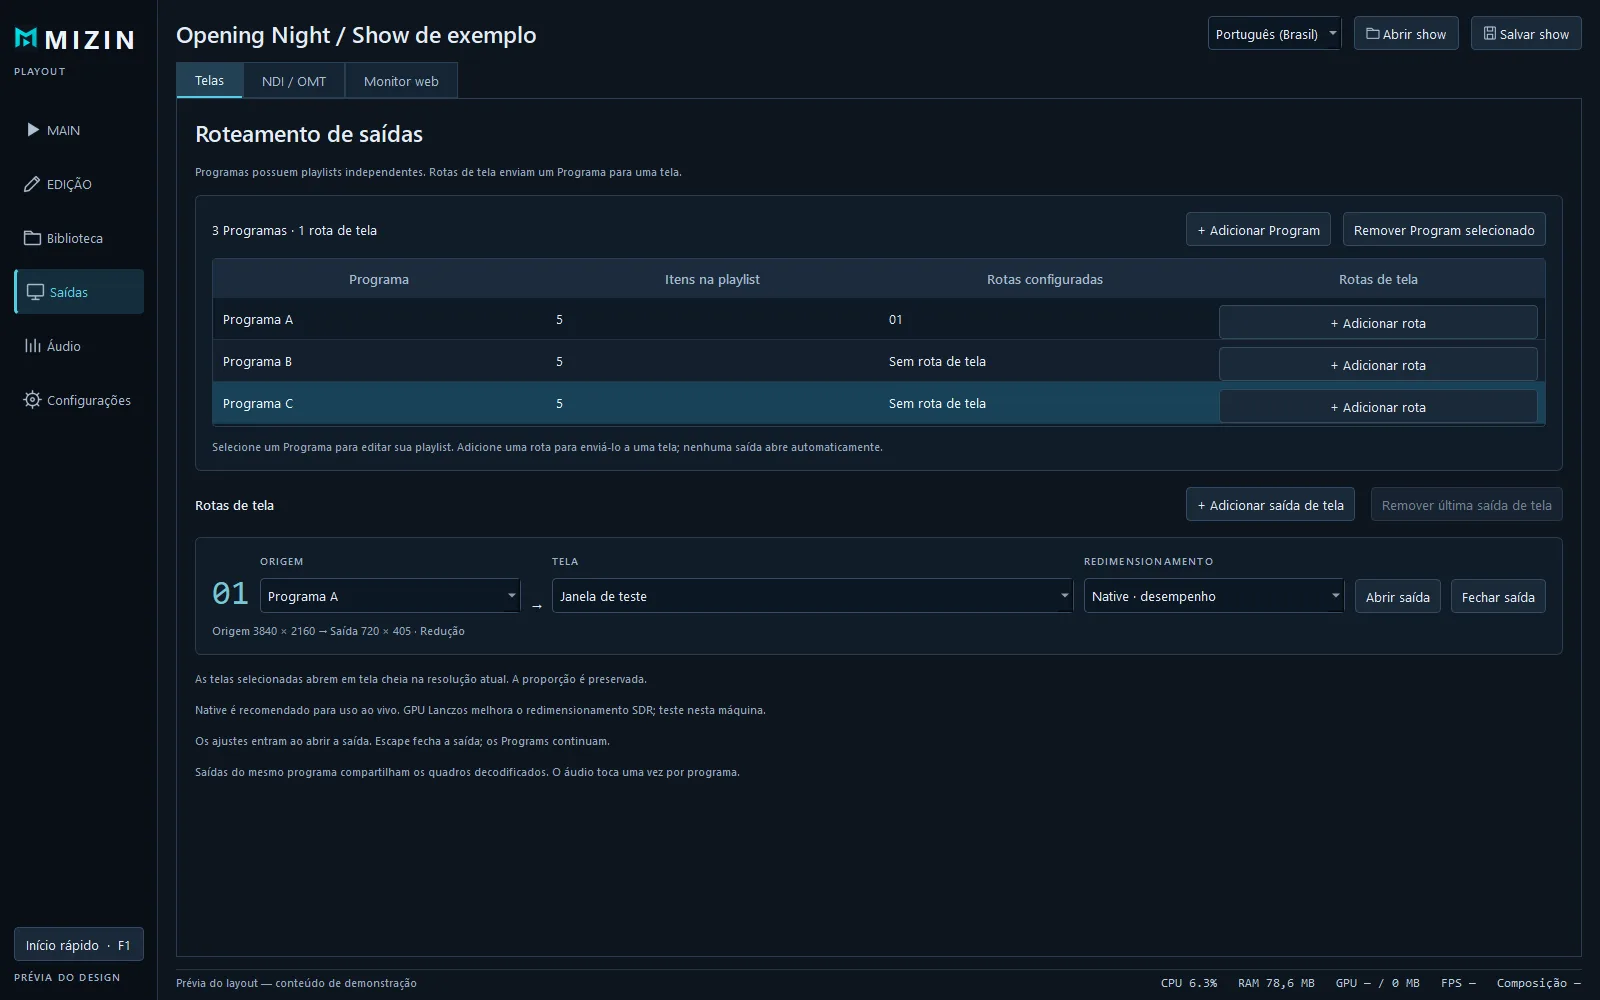
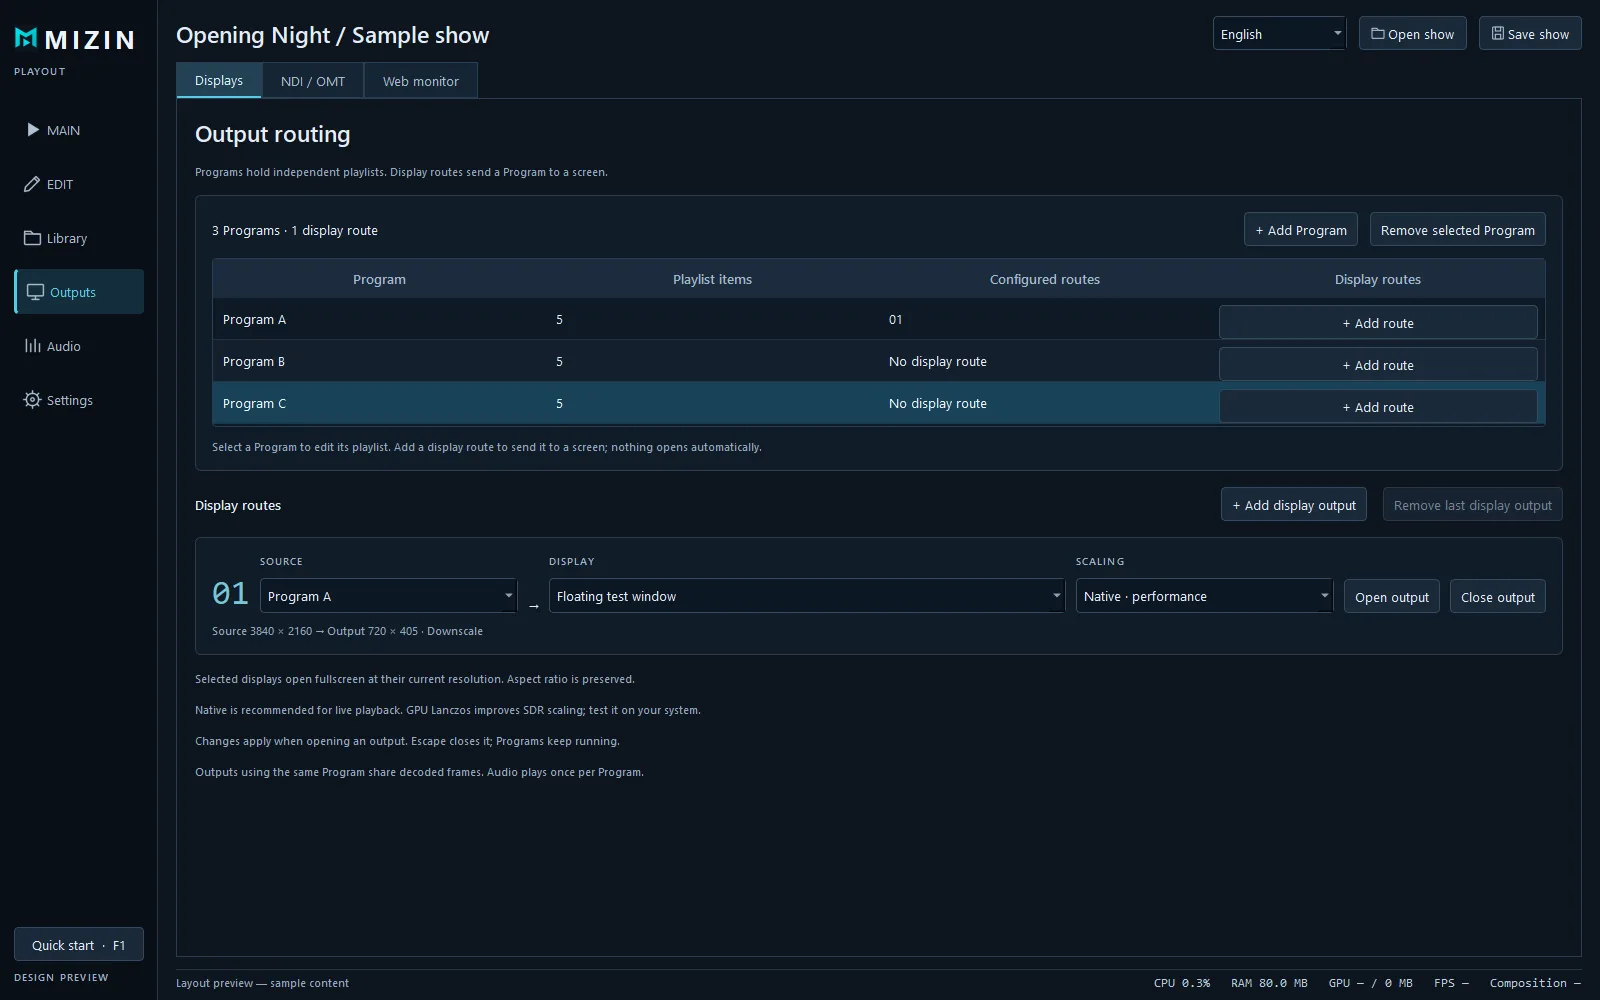
fix: corrige proporcao das imagens do site e adiciona pagina de novidades e script de lancamento

diff --git a/targets/mizin_playout/site/tutorial.html b/targets/mizin_playout/site/tutorial.html
@@ -10,7 +10,7 @@
 <meta name="description-en" content="Step by step: install, build your first show, take CUT/FADE, outputs, NDI/OMT, web monitor and low-latency audio.">
 <meta name="description-pt-BR" content="Passo a passo: instalar, montar o primeiro show, disparar CUT/FADE, saídas, NDI/OMT, monitor web e áudio de baixa latência.">
 <link rel="icon" href="assets/favicon-32.png">
-<link rel="stylesheet" href="assets/styles.css">
+<link rel="stylesheet" href="assets/styles.css?v=e608c2eeea">
 </head>
 <body>
 <header class="top"><div class="wrap">
@@ -18,6 +18,7 @@
   <nav class="links">
     <a href="./"><span lang="en">Home</span><span lang="pt-BR">Início</span></a>
     <a href="./#download"><span lang="en">Download</span><span lang="pt-BR">Baixar</span></a>
+    <a href="changelog.html"><span lang="en">What's new</span><span lang="pt-BR">Novidades</span></a>
   </nav>
   <div class="lang" role="group" aria-label="Language / Idioma"><button data-lang="en">EN</button><button data-lang="pt-BR">PT</button></div>
 </div></header>
@@ -80,7 +81,7 @@
     <h3 lang="en">7 · Screens (LED, projector, TV)</h3><h3 lang="pt-BR">7 · Telas (LED, projetor, TV)</h3>
     <ol lang="en"><li>Open <b>Outputs → Displays</b>. Each route has a <b>Source</b> (Program) and a <b>Display</b>.</li><li><b>+ Add display output</b> creates more routes; several routes can mirror the same Program.</li><li>Choose scaling: <b>Native</b> (recommended live) or <b>Lanczos GPU</b>.</li><li><b>Open output</b> goes fullscreen on that display; <kbd>Esc</kbd> closes it — the Program keeps running.</li></ol>
     <ol lang="pt-BR"><li>Abra <b>Saídas → Telas</b>. Cada rota tem uma <b>Origem</b> (Program) e uma <b>Tela</b>.</li><li><b>+ Adicionar saída de tela</b> cria mais rotas; várias rotas podem espelhar o mesmo Program.</li><li>Escolha a escala: <b>Nativa</b> (recomendada ao vivo) ou <b>Lanczos GPU</b>.</li><li><b>Abrir saída</b> abre em tela cheia naquela tela; <kbd>Esc</kbd> fecha — o Program continua rodando.</li></ol>
-  </div><div class="shot" style="margin:0"><img alt="" src="assets/shots/02-outputs-en.webp" loading="lazy" width="1600" height="1000"></div></div>
+  </div><div class="shot" style="margin:0"><img alt="" src="assets/shots/02-outputs-en.webp" data-src-en="assets/shots/02-outputs-en.webp" data-src-pt="assets/shots/03-outputs-pt-BR.webp" loading="lazy" width="1600" height="1000"></div></div>
 
   <div class="step" id="network"><div>
     <h3 lang="en">8 · NDI® and OMT</h3><h3 lang="pt-BR">8 · NDI® e OMT</h3>
@@ -108,6 +109,6 @@
 </div></section>
 </main>
 <footer><div class="wrap"><span>© 2026 Mizin · <a href="./">Mizin Playout</a></span><span lang="en">NDI® is a registered trademark of Vizrt NDI AB.</span><span lang="pt-BR">NDI® é marca registrada da Vizrt NDI AB.</span></div></footer>
-<script src="assets/site.js"></script>
+<script src="assets/site.js?v=35d0cf8864"></script>
 </body>
 </html>

diff --git a/targets/mizin_playout/site/index.html b/targets/mizin_playout/site/index.html
@@ -13,7 +13,7 @@
 <meta property="og:description" content="Live video playout for shows and events · Playout de vídeo ao vivo para shows e eventos">
 <meta property="og:image" content="assets/shots/01-main-en.webp">
 <link rel="icon" href="assets/favicon-32.png">
-<link rel="stylesheet" href="assets/styles.css">
+<link rel="stylesheet" href="assets/styles.css?v=e608c2eeea">
 <link rel="alternate" hreflang="en" href="./?lang=en">
 <link rel="alternate" hreflang="pt-BR" href="./?lang=pt-BR">
 </head>
@@ -25,6 +25,7 @@
     <a href="#live"><span lang="en">Live desk</span><span lang="pt-BR">Mesa ao vivo</span></a>
     <a href="#download"><span lang="en">Download</span><span lang="pt-BR">Baixar</span></a>
     <a href="tutorial.html"><span lang="en">Tutorial</span><span lang="pt-BR">Tutorial</span></a>
+    <a href="changelog.html"><span lang="en">What's new</span><span lang="pt-BR">Novidades</span></a>
     <a href="#support"><span lang="en">Support the project</span><span lang="pt-BR">Apoie o projeto</span></a>
   </nav>
   <div class="lang" role="group" aria-label="Language / Idioma"><button data-lang="en">EN</button><button data-lang="pt-BR">PT</button></div>
@@ -101,7 +102,7 @@
         <li lang="pt-BR">Os envios NDI / OMT e o monitor web nunca começam sozinhos ao abrir um show.</li>
       </ul>
     </div>
-    <div class="shot"><img alt="Outputs" src="assets/shots/02-outputs-en.webp" width="1600" height="1000" loading="lazy"></div>
+    <div class="shot"><img alt="Outputs" src="assets/shots/02-outputs-en.webp" data-src-en="assets/shots/02-outputs-en.webp" data-src-pt="assets/shots/03-outputs-pt-BR.webp" width="1600" height="1000" loading="lazy"></div>
   </div>
   <div class="split" style="margin-top:40px">
     <div class="shot"><img alt="Audio" src="assets/shots/07-audio-en.webp" data-src-en="assets/shots/07-audio-en.webp" data-src-pt="assets/shots/08-audio-pt-BR.webp" width="1600" height="1000" loading="lazy"></div>
@@ -163,6 +164,6 @@
   <span lang="en">NDI® is a registered trademark of Vizrt NDI AB. Third-party notices ship with the app.</span>
   <span lang="pt-BR">NDI® é marca registrada da Vizrt NDI AB. Os avisos de terceiros acompanham o aplicativo.</span>
 </div></footer>
-<script src="assets/site.js"></script>
+<script src="assets/site.js?v=35d0cf8864"></script>
 </body>
 </html>

diff --git a/targets/mizin_playout/site/changelog.html b/targets/mizin_playout/site/changelog.html
@@ -1,0 +1,36 @@
+<!doctype html>
+<html lang="en" data-lang="en">
+<head>
+<meta charset="utf-8">
+<meta name="viewport" content="width=device-width, initial-scale=1">
+<title>Mizin Playout — What's new</title>
+<meta name="title-en" content="Mizin Playout — What's new">
+<meta name="title-pt-BR" content="Mizin Playout — Novidades">
+<meta name="description" content="Release notes of every published Mizin Playout version.">
+<meta name="description-en" content="Release notes of every published Mizin Playout version.">
+<meta name="description-pt-BR" content="Novidades de cada versão publicada do Mizin Playout.">
+<link rel="icon" href="assets/favicon-32.png">
+<link rel="stylesheet" href="assets/styles.css?v=e608c2eeea">
+</head>
+<body>
+<header class="top"><div class="wrap">
+  <a class="brand" href="./"><img src="assets/icon-256.png" alt="">MIZIN <small>PLAYOUT</small></a>
+  <nav class="links">
+    <a href="./"><span lang="en">Home</span><span lang="pt-BR">Início</span></a>
+    <a href="tutorial.html"><span lang="en">Tutorial</span><span lang="pt-BR">Tutorial</span></a>
+    <a href="./#download"><span lang="en">Download</span><span lang="pt-BR">Baixar</span></a>
+  </nav>
+  <div class="lang" role="group" aria-label="Language / Idioma"><button data-lang="en">EN</button><button data-lang="pt-BR">PT</button></div>
+</div></header>
+<main>
+<section style="border-top:0"><div class="wrap">
+  <h2 lang="en">What's new</h2><h2 lang="pt-BR">Novidades</h2>
+  <p class="sub" lang="en">Every published version and what it brings. The app shows the same notes when an update is available.</p>
+  <p class="sub" lang="pt-BR">Cada versão publicada e o que ela traz. O app mostra as mesmas notas quando há atualização.</p>
+  <div id="releases" class="releases"></div>
+</div></section>
+</main>
+<footer><div class="wrap"><span>© 2026 Mizin · <a href="./">Mizin Playout</a></span></div></footer>
+<script src="assets/site.js?v=35d0cf8864"></script>
+</body>
+</html>

diff --git a/targets/mizin_playout/site/assets/site.js b/targets/mizin_playout/site/assets/site.js
@@ -16,6 +16,20 @@
   apply(pick);
 })();
 
+// What's new: rendered from assets/changelog.json (newest first), in both languages.
+(async function(){
+  const box=document.getElementById("releases");if(!box)return;
+  try{const r=await fetch("assets/changelog.json",{cache:"no-store"});if(!r.ok)return;const list=await r.json();
+    list.forEach((item,index)=>{const card=document.createElement("article");card.className="release";
+      const head=document.createElement("header");const title=document.createElement("h3");title.textContent=item.version;head.append(title);
+      if(index===0){const badge=document.createElement("span");badge.className="latest";badge.innerHTML='<span lang="en">LATEST</span><span lang="pt-BR">ATUAL</span>';head.append(badge);}
+      if(item.date){const time=document.createElement("time");time.dateTime=item.date;time.textContent=item.date;head.append(time);}
+      card.append(head);
+      for(const lang of ["en","pt-BR"]){const ul=document.createElement("ul");ul.lang=lang;for(const line of (item.notes&&item.notes[lang])||[]){const li=document.createElement("li");li.textContent=line;ul.append(li);}card.append(ul);}
+      box.append(card);});
+  }catch(_){}
+})();
+
 // Downloads: links are baked into the page; assets/release.json (same origin, written by
 // scripts/site.py at deploy time from the validated package) refreshes them.
 (async function(){
@@ -28,3 +42,6 @@
     document.querySelectorAll("[data-version]").forEach(el=>{el.textContent=release.version;});
   }catch(_){/* Static links stay. */}
 })();
+
+// Screenshots open full size in a new tab.
+document.querySelectorAll(".shot img").forEach(img=>{img.style.cursor="zoom-in";img.title=document.documentElement.dataset.lang==="pt-BR"?"Clique para ampliar":"Click to enlarge";img.addEventListener("click",()=>window.open(img.currentSrc||img.src,"_blank","noopener"));});

diff --git a/targets/mizin_playout/site/assets/styles.css b/targets/mizin_playout/site/assets/styles.css
@@ -7,7 +7,7 @@ html{scroll-behavior:smooth}
 body{margin:0;background:var(--bg);color:var(--text);font:16px/1.6 "Segoe UI",system-ui,-apple-system,Roboto,sans-serif}
 html[data-lang="en"] [lang="pt-BR"],html[data-lang="pt-BR"] [lang="en"]{display:none!important}
 a{color:var(--accent)}
-img{max-width:100%;display:block}
+img{max-width:100%;height:auto;display:block}
 .wrap{max-width:var(--max);margin:0 auto;padding:0 16px}
 header.top{position:sticky;top:0;z-index:10;background:rgba(11,18,27,.92);backdrop-filter:blur(8px);border-bottom:1px solid var(--line)}
 header.top .wrap{display:flex;align-items:center;gap:16px;min-height:60px;flex-wrap:wrap}
@@ -53,6 +53,14 @@ ul.checks li::before{content:"";position:absolute;left:4px;top:14px;width:10px;h
 .note{background:var(--panel-2);border-left:3px solid var(--accent-2);padding:12px 16px;border-radius:6px;color:var(--muted);font-size:14px;margin-top:20px}
 footer{padding:40px 0;border-top:1px solid var(--line);color:var(--muted);font-size:13px}
 footer .wrap{display:flex;gap:16px;flex-wrap:wrap;justify-content:space-between}
+/* changelog */
+.release{background:var(--panel);border:1px solid var(--line);border-radius:var(--radius);padding:20px 22px;margin-bottom:16px}
+.release header{display:flex;flex-wrap:wrap;gap:8px 14px;align-items:baseline;margin-bottom:10px}
+.release h3{margin:0;font-size:20px}
+.release time{color:var(--muted);font-size:13px}
+.release .latest{font-size:11px;font-weight:700;letter-spacing:.8px;color:#06222a;background:var(--accent);border-radius:99px;padding:2px 8px}
+.release ul{margin:0;padding-left:20px;color:var(--muted)}
+.release li{margin:6px 0}
 /* tutorial */
 .toc{display:flex;flex-wrap:wrap;gap:8px;margin:0 0 32px}
 .toc a{font-size:13px;text-decoration:none;border:1px solid var(--line);border-radius:99px;padding:5px 12px;color:var(--muted)}

diff --git a/targets/mizin_playout/scripts/site.py b/targets/mizin_playout/scripts/site.py
@@ -22,3 +22,17 @@ for kind,a in artifacts.items():
     html=re.sub(r'(<span data-size="'+kind+r'">)[^<]*',lambda m:m.group(1)+f"{a['bytes']/1e6:.1f} MB",html)
 html=re.sub(r'(data-version>)v[^<]*',lambda m:m.group(1)+latest['version'],html)
 index.write_text(html,encoding='utf-8');print(index)
+# What's new: each published version is added once (newest first) from its packaged bilingual notes.
+import datetime
+changelog_path=ROOT/'site/assets/changelog.json'
+changelog=json.loads(changelog_path.read_text(encoding='utf-8')) if changelog_path.exists() else []
+if not any(item['version']==latest['version'] for item in changelog):
+    notes=json.loads((ROOT/latest['release']/'payload/release-notes.json').read_text(encoding='utf-8-sig'))
+    changelog.insert(0,dict(version=latest['version'],date=datetime.date.today().isoformat(),notes={'en':notes['en'],'pt-BR':notes['pt-BR']}))
+    changelog_path.write_text(json.dumps(changelog,ensure_ascii=False,indent=2)+'\n',encoding='utf-8')
+print(changelog_path)
+# Cache busting: stylesheets/scripts are cached by browsers; stamp their content hash so every change is picked up.
+for page in (ROOT/'site').glob('*.html'):
+    html=page.read_text(encoding='utf-8')
+    html=re.sub(r'assets/(styles\.css|site\.js)(\?v=[^"]*)?"',lambda m:'assets/'+m.group(1)+'?v='+__import__('hashlib').sha256((ROOT/'site/assets'/m.group(1)).read_bytes()).hexdigest()[:10]+'"',html)
+    page.write_text(html,encoding='utf-8')

diff --git a/targets/mizin_playout/README.md b/targets/mizin_playout/README.md
@@ -86,6 +86,8 @@ scripts/version.py reads actual target Git commits since the recorded source com
 
 ## Estado Atual e Próximos Passos
 
+**Release rule (owner decision, 2026-10-22): every validated update is published, with bilingual notes.** For each version: write `packaging/release-notes.json` (EN + PT-BR, what is new for operators), commit, then run `scripts/release.ps1` (build → package → test-package → test-update-install → signed feed → `scripts/site.py` → Pages deploy). Any failing gate stops before publication. `site.py` adds the version to the site's What's new page (`site/assets/changelog.json`, /changelog), refreshes download links/SHA-256 and cache-busts CSS/JS by content hash. Contact on the site stays empty for now.
+
 **PUBLISHED 2026-10-22 — v0.19.0 (build 0050):** site https://playoutmizin.pages.dev (EN/PT one-page + /tutorial) and the signed update feed https://playoutmizin.pages.dev/updates/preview/latest.json, served by the Cloudflare Pages project `playoutmizin` (functions/updates over the dedicated R2 bucket `playoutmizin-updates`), fully separate from P2PMizin. Package PASS 44, update handoff PASS 11, live online update test PASS (feed signature + verified 54.5 MB download, `evidence/update-online-0050.json`), publication record `evidence/update-publication-0050.json`. Release flow: commit → scripts/build.ps1 → package.ps1 → test-package.ps1 → test-update-install.ps1 → `scripts/updates.py publish` → `python scripts/site.py` → `npx wrangler pages deploy --branch main` (from this folder). Builds ≤0049 point at the old origin and need one manual update.
 
 **Build 0049 (v0.18.4, 2026-10-22) — release candidate for the first public update feed:** low-latency audio engine (ADR-018, WASAPI; ASIO only in local builds with -DMIZIN_ENABLE_ASIO=ON until a Steinberg agreement is signed), detachable decks, web monitor, and an installer that no longer needs administrator rights (app-local Microsoft CRT; a beta tester's Setup had aborted on the elevated runtime step while the portable ZIP worked). Package PASS 44 checks (UI 101, web 18, audio engine 17 incl. VB-Cable loopback, readiness, smoke), update handoff PASS 11. NDI external probes are host-state dependent (0044 fails identically under the same conditions; see ISSUE-001). Builds 0045/0047/0048 superseded (see build-history). **Not yet published**: `scripts/updates.py publish` (R2 `playout/` prefix) and the presentation site in `site/` (Cloudflare Pages project `playoutmizin` → playoutmizin.pages.dev, `scripts/site.py` writes assets/release.json) both await explicit approval to deploy.
